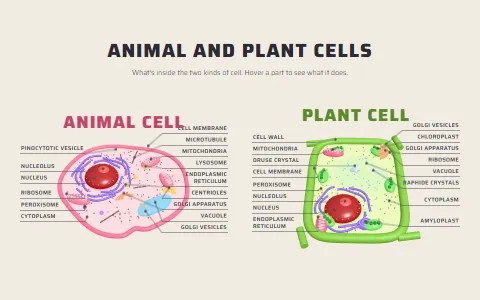
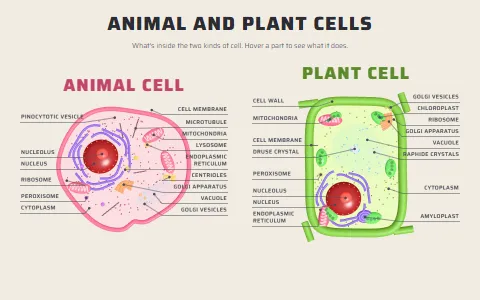
Demo improvements and new thumbnails - stress test chartlab

Changed region(s): [[0.5, 0.3, 0.9688, 0.84], [0.0312, 0.33, 0.5, 0.81], [0.125, 0.03, 0.875, 0.33]]

diff --git a/demos/chartlab.js b/demos/chartlab.js
@@ -1,0 +1,146 @@
+import { View } from 'phoria2'
+import { chart } from 'phoria2/charts'
+import { random } from './kit.js'
+
+// Every chart mark, and the axis and legend options, each in a tile of its own View: grouped and
+// stacked bars, listed and counted ticks, number keys, formats, a light theme, log and time axes,
+// stacked areas, surfaces, force and tiered networks. Live updates animate every tile to new data
+// each second; more copies of the set put more views on the page - past four they share one WebGL
+// context. The readout counts the frames the views draw and the time they take.
+
+const MONTHS = ['Jan', 'Feb', 'Mar', 'Apr', 'May', 'Jun']
+const REGIONS = ['North', 'South', 'East', 'West']
+const DAYS = ['Mon', 'Tue', 'Wed', 'Thu', 'Fri', 'Sat', 'Sun']
+const PRODUCTS = ['Widgets', 'Gadgets', 'Gizmos', 'Doohickeys', 'Sprockets']
+const SERVICES = [['edge', 'gateway'], ['edge', 'cdn'], ['service', 'auth'], ['service', 'orders'], ['service', 'search'],
+  ['service', 'billing'], ['data', 'users-db'], ['data', 'orders-db'], ['data', 'cache'], ['data', 'queue']]
+const CALLS = [['gateway', 'auth'], ['gateway', 'orders'], ['gateway', 'search'], ['cdn', 'search'], ['orders', 'billing'],
+  ['auth', 'users-db'], ['orders', 'orders-db'], ['search', 'cache'], ['billing', 'queue'], ['orders', 'queue'], ['auth', 'cache']]
+
+export default function run({ canvas, gui, info }) {
+  const rand = random(29)
+  const jitter = (v, by) => Math.max(0, Math.round(v * (1 + (rand() - 0.5) * by)))
+  const start = Date.UTC(2026, 6, 1)
+
+  // each tile's data, made afresh for every live update
+  const data = {
+    sales: () => REGIONS.flatMap((region, r) => MONTHS.map((month, m) => ({ id: `${region}-${month}`, region, month, sales: jitter(30 + 14 * Math.sin(m / 1.5 + r) + r * 8, 0.3) }))),
+    products: () => PRODUCTS.map((product) => ({ id: product, product, units: jitter(560, 0.8) })),
+    revenue: () => PRODUCTS.map((product, p) => ({ id: product, product, revenue: jitter(42000 + p * 9000, 0.5) })),
+    customers: () => Array.from({ length: 240 }, (_, i) => ({ id: i, spend: Math.round(rand() * 100), visits: Math.round(rand() * 100),
+      tenure: +(rand() * 10).toFixed(1), score: Math.round(rand() * 100), segment: ['Retail', 'Trade', 'Online'][i % 3], orders: 1 + Math.round(rand() * 20) })),
+    traffic: () => ['Organic', 'Paid', 'Referral'].flatMap((channel, c) => Array.from({ length: 45 }, (_, d) => ({ id: `${channel}-${d}`, channel,
+      date: new Date(start + d * 864e5), visitors: jitter((900 - c * 260) * (1 + 0.25 * Math.sin(d / 7 * Math.PI * 2)), 0.2) }))),
+    growth: () => Array.from({ length: 30 }, (_, d) => ({ id: d, day: d + 1, users: Math.round(40 * 1.22 ** d * (0.85 + rand() * 0.3)) })),
+    errors: () => Array.from({ length: 48 }, (_, h) => ({ id: h, time: new Date(start + h * 36e5), rate: +(0.5 + Math.abs(Math.sin(h / 5)) * 2 + rand() * 0.6).toFixed(2) })),
+    latency: () => DAYS.flatMap((day, d) => Array.from({ length: 24 }, (_, hour) => ({ id: `${day}-${hour}`, day, hour,
+      latency: Math.round(40 + 160 * Math.exp(-((hour - 14) ** 2) / 18) * (d < 5 ? 1 : 0.4) + rand() * 25) }))),
+    change: () => Array.from({ length: 12 }, (_, x) => Array.from({ length: 12 }, (_, z) => ({ id: `${x}-${z}`, x, z,
+      change: Math.round(45 * Math.sin(x / 2.2 + rand() * 0.4) * Math.cos(z / 2.6)) }))).flat(),
+    services: () => ({
+      nodes: SERVICES.map(([tier, id]) => ({ id, tier, status: rand() < 0.15 ? 'degraded' : 'healthy', load: Math.round(20 + rand() * 80) })),
+      links: CALLS.map(([source, target]) => ({ source, target })),
+    }),
+  }
+
+  const TILES = [
+    { title: 'Bar - grouped, value labels', data: 'sales',
+      spec: { mark: 'bar', x: 'month', z: 'region', y: 'sales', color: 'region', label: 'sales', legend: { position: 'top-left' } } },
+    { title: 'Bar - stacked, legend bottom right', data: 'sales',
+      spec: { mark: 'bar', x: 'month', y: { field: 'sales', title: 'Sales (£k)' }, color: 'region', stack: true, legend: { position: 'bottom-right' } } },
+    { title: 'Bar - one colour, listed ticks', data: 'products',
+      spec: { mark: 'bar', x: 'product', y: { field: 'units', axis: { ticks: [0, 250, 500, 750, 1000] } }, color: '#76b7b2', label: 'units' } },
+    { title: 'Bar - currency, light theme', data: 'revenue', light: true, camera: 'front',
+      spec: { mark: 'bar', x: 'product', y: { field: 'revenue', format: { style: 'currency', currency: 'GBP', notation: 'compact' } }, color: 'product', theme: 'light', legend: false } },
+    { title: 'Point - 3D, number key with ticks', data: 'customers',
+      spec: { mark: 'point', x: { field: 'spend', axis: { ticks: [0, 25, 50, 75, 100] } }, y: 'visits', z: 'tenure',
+        color: { field: 'score', title: 'Score' }, legend: { ticks: [0, 25, 50, 75, 100] } } },
+    { title: 'Point - size and segments', data: 'customers', camera: 'front',
+      spec: { mark: 'point', x: 'spend', y: { field: 'visits', axis: { ticks: 3 } }, size: 'orders', color: 'segment' } },
+    { title: 'Line - series over time', data: 'traffic',
+      spec: { mark: 'line', x: 'date', y: 'visitors', z: 'channel', color: 'channel' } },
+    { title: 'Line - log scale', data: 'growth', camera: 'front',
+      spec: { mark: 'line', x: { field: 'day', axis: { ticks: [1, 10, 20, 30] } }, y: { field: 'users', scale: { type: 'log' } }, color: '#edc948' } },
+    { title: 'Area - stacked over time', data: 'traffic',
+      spec: { mark: 'area', x: 'date', y: 'visitors', color: 'channel', stack: true } },
+    { title: 'Area - one series, untitled', data: 'errors', camera: 'front',
+      spec: { mark: 'area', x: { field: 'time', axis: { title: '' } }, y: { field: 'rate', title: 'Errors (%)' }, color: '#e15759' } },
+    { title: 'Surface - heat, counted key', data: 'latency',
+      spec: { mark: 'surface', x: 'hour', z: 'day', y: 'latency', color: { field: 'latency', title: 'ms', scale: { scheme: 'heat' } }, legend: { ticks: 4 } } },
+    { title: 'Surface - diverging, three stops', data: 'change',
+      spec: { mark: 'surface', x: 'x', z: 'z', y: 'change', color: { field: 'change', title: 'Change', scale: { domain: [-50, 0, 50], scheme: 'redblue' } } } },
+    { title: 'Network - force', data: 'services',
+      spec: { mark: 'network', color: { field: 'status', scale: { domain: ['healthy', 'degraded'], range: ['#59a14f', '#f2b134'] } }, size: 'load', label: 'id', legend: { position: 'bottom-left' } } },
+    { title: 'Network - tiered', data: 'services',
+      spec: { mark: 'network', layout: { tiers: 'tier', order: ['edge', 'service', 'data'] }, color: 'tier', label: 'id', link: { flow: 1 }, legend: false } },
+  ]
+
+  canvas.style.display = 'none'
+  const grid = document.createElement('div')
+  grid.className = 'demo-dashboard demo-chartlab'
+  document.body.append(grid)
+
+  const settings = { copies: 1, live: false }
+  /** @type {{ view: View, chart: any, data: string }[]} */
+  let tiles = []
+  // the readout: frames drawn across every view, and the time drawing took, each second
+  const stats = { frames: 0, ms: 0, update: 0 }
+
+  const build = () => {
+    for (const t of tiles) t.view.dispose()
+    grid.replaceChildren()
+    tiles = []
+    for (let copy = 0; copy < settings.copies; copy++) {
+      for (const tile of TILES) {
+        const section = document.createElement('section')
+        section.className = 'demo-tile'
+        if (tile.light) section.style.background = '#f4f5f7'
+        section.innerHTML = '<h3></h3><canvas></canvas>'
+        section.querySelector('h3').textContent = tile.title
+        grid.append(section)
+        const view = new View({ canvas: section.querySelector('canvas'), orbit: true, framing: 'both',
+          background: tile.light ? '#f4f5f7' : '#1b1c22', camera: /** @type {import('phoria2').CameraPreset} */ (tile.camera ?? 'perspective') })
+        const made = view.scene.add(chart({ ...tile.spec, data: data[tile.data](), tooltip: true }))
+        // instrumentation for the readout: count each frame a view draws, and time it
+        const render = view.render.bind(view)
+        view.render = () => {
+          const t0 = performance.now()
+          const frame = render()
+          stats.ms += performance.now() - t0
+          stats.frames++
+          return frame
+        }
+        tiles.push({ view, chart: made, data: tile.data })
+      }
+    }
+  }
+  build()
+
+  const update = () => {
+    const t0 = performance.now()
+    for (const t of tiles) t.chart.update(data[t.data]())
+    stats.update = performance.now() - t0
+  }
+  let timer = 0
+  const live = (on) => {
+    clearInterval(timer)
+    if (on) timer = setInterval(update, 1000)
+  }
+
+  const show = () => {
+    info.textContent = `${tiles.length} views - ${stats.frames} frames drawn in the last second, ${stats.ms.toFixed(1)} ms drawing` +
+      (settings.live ? `, ${stats.update.toFixed(1)} ms to give every chart new data` : ' - idle until touched')
+    stats.frames = 0
+    stats.ms = 0
+  }
+  setInterval(show, 1000)
+  show()
+
+  gui.add(settings, 'live').name('live updates').onChange(live)
+  gui.add(settings, 'copies', { '14 views': 1, '28 views': 2, '56 views': 4, '112 views': 8 }).name('views').onChange((n) => {
+    settings.copies = Number(n)
+    build()
+  })
+  gui.add({ update }, 'update').name('new data once')
+  return tiles[0].view
+}

diff --git a/demos/registry.js b/demos/registry.js
@@ -7,33 +7,34 @@ export const REPO = 'https://github.com/kevinroast/phoria2'
 export const DEMOS = [
   { section: 'Charts and diagrams', name: 'bars', title: 'a bar chart from a spec - axes, legend, value labels, animated updates' },
   { name: 'scatter', title: 'a 3D scatter of customers from a spec - legend, tooltips, flat projections' },
-  { name: 'timeseries', title: 'visitors over time - stacked areas, ribbons in depth or lines, with live data' },
-  { name: 'surface', title: 'latency by hour and day as a heat-coloured surface that tweens to new data' },
+  { name: 'timeseries', title: 'visitors over time - stacked areas, ribbons in depth or lines, live data' },
+  { name: 'surface', title: 'latency by hour and day as heat-coloured surface, tweens to new data' },
   { name: 'network', title: 'a service dependency map - force or tiered layout, flowing traffic, failures' },
   { name: 'graph', title: 'a memory graph of points and thousands of additive links - hover to light a neighbourhood' },
   { name: 'dashboard', title: 'eight chart tiles, each its own view, idle until touched' },
+  { name: 'chartlab', title: 'every chart mark, axis and legend option, a view each - live updates, stress test' },
   { name: 'topology', title: 'a network topology built by hand - status colours, hover to trace links, live traffic' },
   { name: 'floorplan', title: 'a data hall floor plan - isometric or plan view, rack heat map, image export' },
-  { name: 'planner', title: 'an office floor planner - drag furniture in, select, move and turn it with a handle, snapping, undo' },
-  { name: 'city', title: 'a city as data - 1,500 instanced buildings coloured by energy use, occupancy, age or use, with tooltips' },
+  { name: 'planner', title: 'office floor planner - drag furniture in, select, move and turn it with a handle, snapping, undo' },
+  { name: 'city', title: 'a city as data - 1,500 instanced buildings coloured by energy use, occupancy, age or use' },
   { section: 'Features', name: 'hello', title: 'a minimal scene, with the whole program' },
   { name: 'scene-json', title: 'a scene as plain JSON - edit it, add to it, rebuild it, export it' },
   { name: 'materials', title: 'roughness and metalness under a movable light and the studio environment' },
   { name: 'lights', title: 'lights in two moods - sunset and neon - and a swinging lamp that carries its spot light' },
   { name: 'textures', title: 'photo textures with normal and ARM maps, a live canvas screen, nearest and linear filtering' },
   { name: 'particles', title: 'particle emitters in three set pieces - a fountain, a brazier and falling snow' },
-  { name: 'harbour', title: 'a harbour on a foggy night - lamps and a lighthouse beam casting shadows through the mist' },
-  { name: 'pumpkin', title: "a jack-o'-lantern - a candle inside casting shadows all round, its light escaping only through the carved face" },
+  { name: 'harbour', title: 'a harbour on a foggy night - lamps and a lighthouse beam casting shadows through mist' },
+  { name: 'pumpkin', title: "a jack-o'-lantern - candle inside casting shadows, light escaping through the carved face" },
   { name: 'viewer', title: 'a glTF product viewer - full material maps, an HDR studio, shadows, animation' },
   { name: 'models', title: 'hand-made models from raw points and polygons - drawn solid, as edges and as points' },
-  { section: 'Showcase', name: 'solar', title: 'a solar system - nested orbits, planets painted in code, a sun that lights them, click to follow' },
-  { name: 'artemis', title: 'an animated infographic of Artemis IV - the Blue Moon lander mission, step by step on a timeline' },
+  { section: 'Showcase', name: 'solar', title: 'a solar system - nested orbits, planets painted in code, click to follow a planet' },
+  { name: 'artemis', title: 'an animated infographic of Artemis IV - the Blue Moon lander mission, step by step timeline' },
   { name: 'cpu', title: 'a processor going into its socket - exploded layers, glowing traces and bloom' },
-  { name: 'engine', title: 'an inline four engine, cut away - pistons, valves and crank running inside, a section plane through the cylinders' },
+  { name: 'engine', title: 'an inline four engine, cut away - pistons, valves and crank running inside' },
   { name: 'volcano', title: 'a volcano erupting, cut away to show the magma inside - callouts with leader lines' },
-  { name: 'carbide', title: 'Carbide, the Robot Wars champion 2017 - a double wedge on yellow wheels, steel bar weapon spinning up' },
+  { name: 'carbide', title: 'Carbide, the Robot Wars champion 2017 - a double wedge on yellow wheels, steel bar weapon' },
   { name: 'cells', title: 'an animal and a plant cell, cut open - a labelled science poster, hover a part to light it' },
-  { name: 'skull', title: 'the human skull, as an anatomy plate - every bone coloured and named in Latin; hover for English, click a bone or its name to draw it out' },
+  { name: 'skull', title: 'human skull as an anatomy plate - bones coloured and named in Latin, click to explode view' },
   { name: 'galaxy', title: 'a spiral galaxy - 200,000 additive stars, old and young, round a glowing core' },
   { name: 'fireworks', title: 'fireworks over a city across the water - rockets with physics, four burst shapes, reflections' },
   { name: 'paint', title: 'a paint cannon - click the wall to aim; drops splat and drip into its canvas textures', orbit: false },

diff --git a/demos/dashboard.js b/demos/dashboard.js
@@ -31,14 +31,14 @@ export default function run({ canvas, info }) {
     links: [['api', 'auth'], ['api', 'db'], ['api', 'cache'], ['api', 'queue'], ['queue', 'worker'], ['worker', 'db'], ['auth', 'cache']].map(([source, target]) => ({ source, target })) }
 
   const tiles = [
-    { title: 'Sales by region (£k)', camera: persp([9.87, 9.168, 13.344], [0.212, 2.143, -0.134]), spec: { mark: 'bar', data: sales, x: 'month', z: 'region', y: 'sales', color: 'region' } },
-    { title: 'Visitors by channel', camera: ortho([11.53, 9.742, 18.372], [-0.539, 2.953, -0.668], 12.578), spec: { mark: 'area', data: traffic, x: 'date', y: 'visitors', color: 'channel', stack: true } },
-    { title: 'Customers', camera: persp([11.853, 6.067, 12.635], [0.108, 1.984, 0.202]), spec: { mark: 'point', data: scatter, x: 'spend', y: 'visits', z: 'tenure', color: 'segment' } },
-    { title: 'Latency by hour (ms)', camera: persp([7.073, 8.78, 14.983], [-0.912, 0.571, 0.887]), spec: { mark: 'surface', data: latency, x: 'hour', z: 'day', y: 'latency', color: { field: 'latency', scale: { scheme: 'heat' } } } },
-    { title: 'Units by product', camera: ortho([4.63, 9.183, 22.286], [-0.391, 2.563, 0.258], 11.321), spec: { mark: 'bar', data: products, x: 'product', y: 'units', label: 'units', color: '#76b7b2' } },
-    { title: 'Error rate (%)', camera: ortho([9.689, 11.452, 19.992], [-0.288, 2.884, 0.465], 10.188), spec: { mark: 'line', data: errors, x: 'time', y: 'rate', color: '#e15759' } },
-    { title: 'Services', camera: persp([2.21, 6.022, 7.175], [0.63, 3.729, -0.914]), spec: { mark: 'network', data: net, color: { field: 'status', scale: { domain: ['healthy', 'degraded'], range: ['#59a14f', '#f2b134'] } }, label: 'id' } },
-    { title: 'Stacked sales', camera: ortho([10.178, 9.591, 19.54], [-0.709, 2.793, -0.197], 10.298), spec: { mark: 'bar', data: sales, x: 'month', y: 'sales', color: 'region', stack: true } },
+    { title: 'Sales by region (£k)', camera: persp([8.904, 8.465, 11.996], [0.212, 2.143, -0.134]), spec: { mark: 'bar', data: sales, x: 'month', z: 'region', y: 'sales', color: 'region' } },
+    { title: 'Visitors by channel', camera: ortho([11.53, 9.742, 18.372], [-0.539, 2.953, -0.668], 11.32), spec: { mark: 'area', data: traffic, x: 'date', y: 'visitors', color: 'channel', stack: true } },
+    { title: 'Customers', camera: persp([10.678, 5.659, 11.392], [0.108, 1.984, 0.202]), spec: { mark: 'point', data: scatter, x: 'spend', y: 'visits', z: 'tenure', color: 'segment' } },
+    { title: 'Latency by hour (ms)', camera: persp([6.275, 7.959, 13.573], [-0.912, 0.571, 0.887]), spec: { mark: 'surface', data: latency, x: 'hour', z: 'day', y: 'latency', color: { field: 'latency', scale: { scheme: 'heat' } } } },
+    { title: 'Units by product', camera: ortho([4.63, 9.183, 22.286], [-0.391, 2.563, 0.258], 10.189), spec: { mark: 'bar', data: products, x: 'product', y: 'units', label: 'units', color: '#76b7b2' } },
+    { title: 'Error rate (%)', camera: ortho([9.689, 11.452, 19.992], [-0.288, 2.884, 0.465], 9.169), spec: { mark: 'line', data: errors, x: 'time', y: 'rate', color: '#e15759' } },
+    { title: 'Services', camera: persp([2.052, 5.793, 6.366], [0.63, 3.729, -0.914]), spec: { mark: 'network', data: net, color: { field: 'status', scale: { domain: ['healthy', 'degraded'], range: ['#59a14f', '#f2b134'] } }, label: 'id' } },
+    { title: 'Stacked sales', camera: ortho([10.178, 9.591, 19.54], [-0.709, 2.793, -0.197], 9.268), spec: { mark: 'bar', data: sales, x: 'month', y: 'sales', color: 'region', stack: true } },
   ]
   const views = tiles.map(({ title, camera, spec }) => {
     const tile = document.createElement('section')

diff --git a/src/charts/style.js b/src/charts/style.js
@@ -23,10 +23,13 @@ const CSS = `
   color: inherit; font: inherit; text-align: left; cursor: pointer; }
 :where(.phoria-legend-item.off) { opacity: 0.35; }
 :where(.phoria-legend-swatch) { width: 10px; height: 10px; border-radius: 2px; flex: none; }
-:where(.phoria-legend-key) { display: flex; gap: 6px; margin: 6px 0; }
-:where(.phoria-legend-ramp) { width: 10px; height: 140px; border-radius: 2px; flex: none; }
-:where(.phoria-legend-scale) { position: relative; min-width: 28px; font-size: 11px; font-variant-numeric: tabular-nums; }
-:where(.phoria-legend-scale > span) { position: absolute; left: 0; transform: translateY(50%); white-space: nowrap; opacity: 0.8; }
+/* a number key is up to 140px tall and gives way in a short view, so the legend never scrolls; its
+   values share one grid cell, so the widest sets the key's width, each raised to its place */
+:where(.phoria-legend-key) { display: flex; gap: 6px; margin: 6px 0; flex: 0 1 140px; min-height: 48px; }
+:where(.phoria-legend-ramp) { width: 10px; border-radius: 2px; flex: none; }
+:where(.phoria-legend-scale) { display: grid; font-size: 11px; font-variant-numeric: tabular-nums; }
+:where(.phoria-legend-scale > span) { grid-area: 1 / 1; align-self: end; position: relative; transform: translateY(50%);
+  white-space: nowrap; opacity: 0.8; }
 `
 
 export function addStyle() {

diff --git a/demos/cells.js b/demos/cells.js
@@ -492,8 +492,10 @@ export default function run({ canvas, gui, info }) {
   const views = /** @type {const} */ (['animal', 'plant']).map((kind, i) => {
     const view = new View({
       // turn and zoom, but no panning - the cell stays in the middle of its part of the poster
-      canvas: canvases[i], orbit: { pan: false, minPitch: 0.35, maxPitch: 1.45, minDistance: 6, maxDistance: 20 },
-      camera: { position: [0, 11.2, 10.1], target: [0, -0.2, 0.15], fov: 38 }, framing: 'both', highlight: '#ffffff',
+      canvas: canvases[i], orbit: { pan: false, minPitch: 0.35, minDistance: 6, maxDistance: 20 },
+      // face on, straight down at the cut, as the poster draws it - a hair to the front, so the
+      // back of the cell is up the page
+      camera: { position: [0, 14.93, 0.18], target: [0, -0.2, 0.15], fov: 38 }, framing: 'both', highlight: '#ffffff',
       tooltip: (hit) => ABOUT[kindOf(hit?.node)] ?? null,
     })
     const { scene } = view

diff --git a/test/regressions.test.js b/test/regressions.test.js
@@ -817,4 +817,15 @@ describe('the first fit', () => {
     expect(view.camera.aspect).toBe(4)
     view.dispose()
   })
+
+  it('still fits the scene when keeping the framing moved the camera first', () => {
+    const canvas = /** @type {any} */ (page.canvas())
+    const view = new View({ canvas, framing: 'both' })
+    view.scene.add(new Mesh({ geometry: box(2), position: [5, 0, 0] }))
+    // narrower than when made: keeping 'both' in view backs the camera off before it is fitted
+    canvas.clientWidth = 150
+    view.render()
+    expect(/** @type {any} */ (view.camera).target[0]).toBeCloseTo(5, 0)
+    view.dispose()
+  })
 })

diff --git a/src/View.js b/src/View.js
@@ -472,7 +472,11 @@ export class View {
     this.#height = h
     this.renderer.setSize(w, h, this.#pixelRatio)
     this.camera.aspect = w / h
+    // keeping the framing can move the camera; that isn't the app placing it, so a camera still
+    // waiting to be fitted to the scene stays waiting
+    const waiting = this.#autoFrame && samePlace(cameraPlace(this.camera), this.#autoFrameFrom)
     this.#keepFraming()
+    if (waiting) this.#autoFrameFrom = cameraPlace(this.camera)
     this.#dirty = true
   }
 

diff --git a/demos/demos.css b/demos/demos.css
@@ -1012,6 +1012,12 @@ button.demo-legend-item {
   overflow: auto;
 }
 
+/* the chart lab: fewer, bigger tiles, each tall enough for a whole chart and its key - the grid scrolls */
+.demo-chartlab {
+  grid-template-columns: repeat(auto-fill, minmax(360px, 1fr));
+  grid-auto-rows: 300px;
+}
+
 .demo-tile {
   display: flex;
   flex-direction: column;
